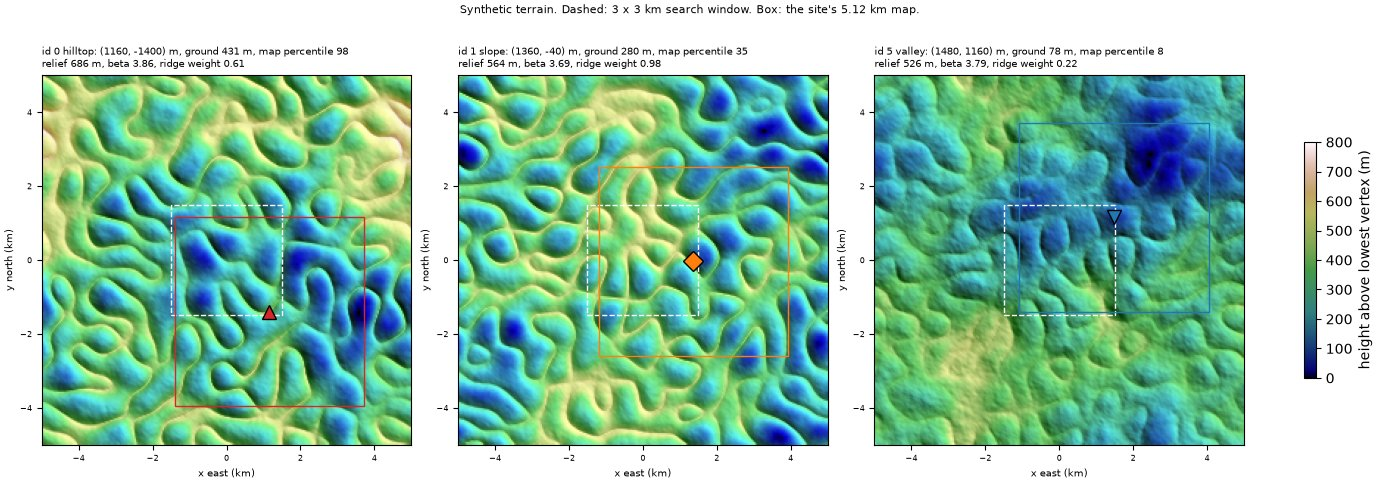
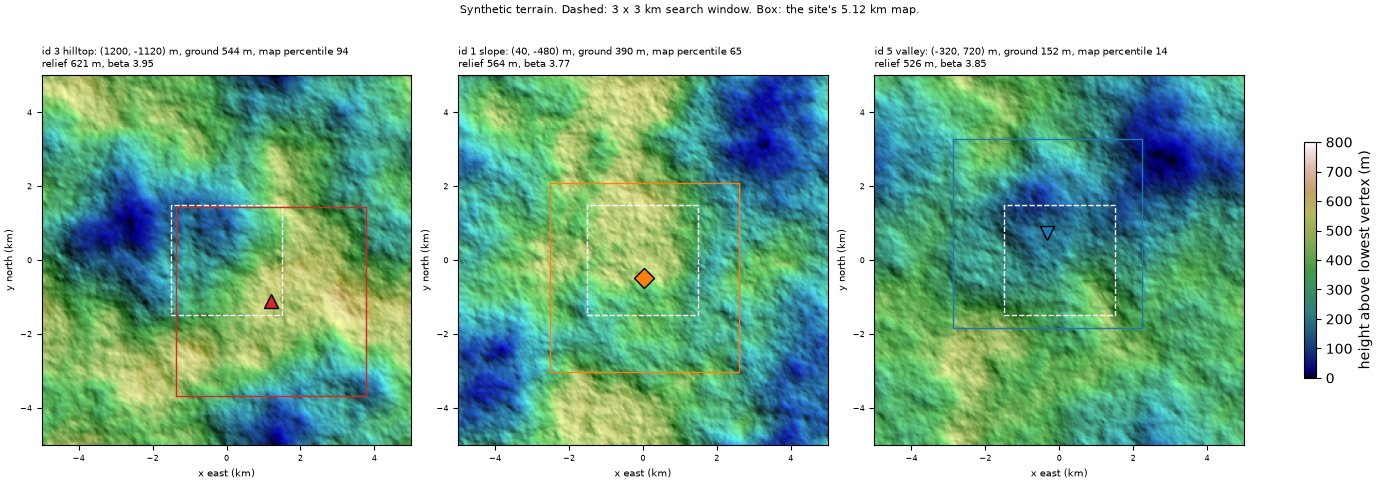
feat: use spectral terrain only and pick sites nearest the window centre

diff --git a/src/sionna_twin_ops/terrain.py b/src/sionna_twin_ops/terrain.py
@@ -1,4 +1,4 @@
-"""Procedural hilly terrain (spec rule T): spectral noise plus ridged noise, from a seed.
+"""Procedural hilly terrain (spec rule T): power-law spectral noise, from a seed.
 
 Coordinates: the tile is centred on the origin, x points east and y north, in metres.
 `heights[i, j]` is the ground height at x = coords[j], y = coords[i]. Heights run from
@@ -16,12 +16,7 @@ GRID_SPACING_M = 40.0  # START (spec T3); PR 3 tries 20 m
 
 # Per-terrain parameter ranges (spec T2). ASSUMPTION: judged by eye on the sample grid.
 RELIEF_RANGE_M = (100.0, 800.0)
-BETA_RANGE = (3.2, 4.0)
-RIDGE_WEIGHT_RANGE = (0.0, 1.0)
-
-# Band of the field whose zero set carries the ridge crests. ASSUMPTION: not given by the
-# spec; wavelengths of 1 to 4 km put crests roughly 0.5 to 2 km apart inside a 5.12 km map.
-RIDGE_BAND_WAVELENGTH_M = (1000.0, 4000.0)
+BETA_RANGE = (3.4, 4.0)
 
 
 @dataclass(frozen=True)
@@ -31,14 +26,12 @@ class TerrainParams:
     Attributes:
         terrain_id: Terrain index; with BASE_SEED it fixes every draw.
         relief_m: Height difference between the highest and lowest vertex.
-        beta: Power-law exponent of the base noise power spectrum.
-        ridge_weight: Weight of the ridge term; 0 gives rolling hills only.
+        beta: Power-law exponent of the noise power spectrum.
     """
 
     terrain_id: int
     relief_m: float
     beta: float
-    ridge_weight: float
 
 
 @dataclass(frozen=True)
@@ -72,35 +65,7 @@ def draw_params(terrain_id: int, rng: np.random.Generator) -> TerrainParams:
         terrain_id=terrain_id,
         relief_m=float(rng.uniform(*RELIEF_RANGE_M)),
         beta=float(rng.uniform(*BETA_RANGE)),
-        ridge_weight=float(rng.uniform(*RIDGE_WEIGHT_RANGE)),
     )
-
-
-def wavenumbers(n: int, spacing_m: float) -> NDArray[np.float64]:
-    """Radial wavenumber of every FFT coefficient of an n x n grid.
-
-    Args:
-        n: Grid points per side.
-        spacing_m: Grid spacing.
-
-    Returns:
-        Array of shape (n, n) in cycles per metre.
-    """
-    kx = np.fft.fftfreq(n, d=spacing_m)
-    return np.hypot(kx[None, :], kx[:, None])
-
-
-def shape_noise(white: NDArray[np.float64], amplitude: NDArray[np.float64]) -> NDArray[np.float64]:
-    """Filter white noise by a spectral amplitude.
-
-    Args:
-        white: White Gaussian noise, shape (n, n).
-        amplitude: Amplitude per FFT coefficient, shape (n, n); zero at k = 0.
-
-    Returns:
-        A zero-mean field of shape (n, n), periodic across the tile edges.
-    """
-    return np.real(np.fft.ifft2(np.fft.fft2(white) * amplitude))
 
 
 def spectral_noise(
@@ -117,35 +82,12 @@ def spectral_noise(
     Returns:
         A zero-mean field of shape (n, n), periodic across the tile edges.
     """
-    k = wavenumbers(n, spacing_m)
+    white = rng.standard_normal((n, n))
+    kx = np.fft.fftfreq(n, d=spacing_m)
+    k = np.hypot(kx[None, :], kx[:, None])
     amplitude = np.zeros_like(k)
     amplitude[k > 0] = k[k > 0] ** (-beta / 2.0)
-    return shape_noise(rng.standard_normal((n, n)), amplitude)
-
-
-def ridge_term(n: int, spacing_m: float, rng: np.random.Generator) -> NDArray[np.float64]:
-    """Ridged noise (1 - |f|/max|f|)**2 of a band-limited field f.
-
-    The term is 1 on the zero set of f and falls off to either side, so crests follow
-    the zero set and branch where it does.
-
-    Args:
-        n: Grid points per side.
-        spacing_m: Grid spacing, used for the wavenumbers.
-        rng: Source of the white noise.
-
-    Returns:
-        Field of shape (n, n) with values in [0, 1].
-    """
-    k = wavenumbers(n, spacing_m)
-    shortest, longest = RIDGE_BAND_WAVELENGTH_M
-    band = (k >= 1.0 / longest) & (k <= 1.0 / shortest)
-    if not band.any():
-        raise ValueError(f"no FFT coefficient in the ridge band {RIDGE_BAND_WAVELENGTH_M} m")
-    field = shape_noise(rng.standard_normal((n, n)), band.astype(np.float64))
-    magnitude = np.abs(field)
-    ridged: NDArray[np.float64] = (1.0 - magnitude / magnitude.max()) ** 2
-    return ridged
+    return np.real(np.fft.ifft2(np.fft.fft2(white) * amplitude))
 
 
 def generate_terrain(terrain_id: int, spacing_m: float) -> Terrain:
@@ -172,9 +114,7 @@ def generate_terrain(terrain_id: int, spacing_m: float) -> Terrain:
     params = draw_params(terrain_id, rng)
     coords = np.linspace(-TILE_SIZE_M / 2.0, TILE_SIZE_M / 2.0, n)
 
-    base = spectral_noise(n, spacing_m, params.beta, rng)
-    base = (base - base.min()) / (base.max() - base.min())
-    raw = base + params.ridge_weight * ridge_term(n, spacing_m, rng)
+    raw = spectral_noise(n, spacing_m, params.beta, rng)
     heights = params.relief_m * (raw - raw.min()) / (raw.max() - raw.min())
     if not np.isfinite(heights).all():
         raise ValueError(f"terrain {terrain_id}: heightmap has non-finite values")

diff --git a/tests/test_site.py b/tests/test_site.py
@@ -13,10 +13,12 @@ from sionna_twin_ops.site import (
     MAST_HEIGHT_M,
     SEARCH_HALF_WIDTH_M,
     SITE_CLASSES,
+    SLOPE_MIN_GRADIENT,
     SLOPE_PERCENTILE_RANGE,
     VALLEY_MAX_PERCENTILE,
     NoSiteError,
     Site,
+    SiteClass,
     baseline_gradient,
     guard_band_m,
     map_bounds,
@@ -44,43 +46,48 @@ def disc(terrain: Terrain, i: int, j: int) -> np.ndarray:
     return heights
 
 
-def placed(terrain_id: int) -> tuple[Terrain, Site]:
-    terrain = generate_terrain(terrain_id, 40.0)
-    return terrain, place_site(terrain, site_class_for(terrain_id))
-
-
-@pytest.mark.parametrize("terrain_id", [0, 3, 6, 9])
-def test_hilltop_rule(terrain_id: int) -> None:
-    terrain, site = placed(terrain_id)
-    i, j = index_of(terrain, site)
-    assert site.ground_m == disc(terrain, i, j).max()
-    assert site.percentile >= HILLTOP_MIN_PERCENTILE
-    assert site.percentile == map_percentile(terrain, i, j)
-
-
-@pytest.mark.parametrize("terrain_id", [5, 8, 11, 14])
-def test_valley_rule(terrain_id: int) -> None:
-    terrain, site = placed(terrain_id)
-    i, j = index_of(terrain, site)
-    assert site.ground_m == disc(terrain, i, j).min()
-    assert site.percentile <= VALLEY_MAX_PERCENTILE
-
-
-@pytest.mark.parametrize("terrain_id", [1, 4, 7])
-def test_slope_rule_picks_the_steepest_qualifying_vertex(terrain_id: int) -> None:
-    terrain, site = placed(terrain_id)
-    low, high = SLOPE_PERCENTILE_RANGE
-    assert low <= site.percentile <= high
+def window_slices(terrain: Terrain) -> slice:
+    """Rows (and columns) of the central 3 x 3 km search window."""
     half = int(SEARCH_HALF_WIDTH_M // terrain.spacing_m)
     centre = len(terrain.coords_m) // 2
-    rows = cols = slice(centre - half, centre + half + 1)
-    gradient = baseline_gradient(terrain.heights_m, rows, cols, terrain.spacing_m)
+    return slice(centre - half, centre + half + 1)
+
+
+def qualifies(terrain: Terrain, site_class: SiteClass, i: int, j: int) -> bool:
+    """Check vertex (i, j) against the S2 rule for the class, written out directly."""
+    percentile = map_percentile(terrain, i, j)
+    if site_class == "hilltop":
+        return bool(terrain.heights_m[i, j] == disc(terrain, i, j).max()) and (
+            percentile >= HILLTOP_MIN_PERCENTILE
+        )
+    if site_class == "valley":
+        return bool(terrain.heights_m[i, j] == disc(terrain, i, j).min()) and (
+            percentile <= VALLEY_MAX_PERCENTILE
+        )
+    low, high = SLOPE_PERCENTILE_RANGE
+    gradient = baseline_gradient(
+        terrain.heights_m, slice(i, i + 1), slice(j, j + 1), terrain.spacing_m
+    )[0, 0]
+    return bool(gradient >= SLOPE_MIN_GRADIENT) and low <= percentile <= high
+
+
+@pytest.mark.parametrize("terrain_id", [1, 3, 4, 5, 6, 8])
+def test_site_qualifies_and_is_nearest_the_centre(terrain_id: int) -> None:
+    terrain = generate_terrain(terrain_id, 40.0)
+    site_class = site_class_for(terrain_id)
+    site = place_site(terrain, site_class)
     i, j = index_of(terrain, site)
-    site_gradient = gradient[i - rows.start, j - cols.start]
-    # Every steeper vertex in the window fails the percentile band.
-    for r, c in zip(*np.nonzero(gradient > site_gradient), strict=True):
-        p = map_percentile(terrain, rows.start + int(r), cols.start + int(c))
-        assert not low <= p <= high
+    assert qualifies(terrain, site_class, i, j)
+    assert site.percentile == map_percentile(terrain, i, j)
+
+    # No vertex strictly nearer the window centre qualifies.
+    window = window_slices(terrain)
+    centre = len(terrain.coords_m) // 2
+    distance = np.hypot(i - centre, j - centre)
+    for r in range(window.start, window.stop):
+        for c in range(window.start, window.stop):
+            if np.hypot(r - centre, c - centre) < distance:
+                assert not qualifies(terrain, site_class, r, c)
 
 
 def test_baseline_gradient_is_exact_on_a_plane() -> None:

diff --git a/src/sionna_twin_ops/site.py b/src/sionna_twin_ops/site.py
@@ -24,6 +24,7 @@ GRADIENT_BASELINE_M = 200.0  # spec S2: slope gradient by central difference ove
 HILLTOP_MIN_PERCENTILE = 85.0  # spec S2
 VALLEY_MAX_PERCENTILE = 15.0  # spec S2
 SLOPE_PERCENTILE_RANGE = (35.0, 65.0)  # spec S2
+SLOPE_MIN_GRADIENT = 0.05  # ASSUMPTION (spec S2): m per m over the 200 m baseline
 MAP_CELLS = 128  # spec S3
 MAP_CELL_M = 40.0  # spec S3
 MAP_SIZE_M = MAP_CELLS * MAP_CELL_M
@@ -151,22 +152,23 @@ def baseline_gradient(
 
 
 def _ordered_candidates(terrain: Terrain, site_class: SiteClass) -> Iterator[tuple[int, int]]:
-    """Candidate vertices for a class, most preferred first, before the percentile test."""
+    """Candidate vertices for a class, nearest the window centre first, before the
+    percentile test. Equal distances keep row-major order, so the choice is deterministic."""
     half = int(SEARCH_HALF_WIDTH_M // terrain.spacing_m)
     centre = len(terrain.coords_m) // 2
     rows = cols = slice(centre - half, centre + half + 1)
     block = terrain.heights_m[rows, cols]
 
     if site_class == "slope":
-        key = -baseline_gradient(terrain.heights_m, rows, cols, terrain.spacing_m)
-        eligible = np.ones_like(block, dtype=bool)
+        gradient = baseline_gradient(terrain.heights_m, rows, cols, terrain.spacing_m)
+        eligible = gradient >= SLOPE_MIN_GRADIENT
     else:
         radius = round(DISC_RADIUS_M / terrain.spacing_m)
         disc_max, disc_min = disc_extremes(terrain.heights_m, rows, cols, radius)
-        if site_class == "hilltop":
-            eligible, key = block == disc_max, -block
-        else:
-            eligible, key = block == disc_min, block
+        eligible = block == (disc_max if site_class == "hilltop" else disc_min)
+
+    offsets = np.arange(-half, half + 1)
+    key = np.hypot(offsets[None, :], offsets[:, None])
 
     flat = np.flatnonzero(eligible.ravel())
     for index in flat[np.argsort(key.ravel()[flat], kind="stable")]:
@@ -188,10 +190,10 @@ def place_site(terrain: Terrain, site_class: SiteClass) -> Site:
     """Choose the site vertex by the rule for its class (spec S2).
 
     Candidates lie inside the central 3 x 3 km; percentiles are taken over the vertices
-    of the site's own map. Hilltop: the highest vertex that is the highest point of the
-    200 m disc around it, at percentile >= 85. Valley: the lowest vertex that is the
-    lowest point of its 200 m disc, at percentile <= 15. Slope: the vertex with the
-    largest gradient over a 200 m baseline among those at percentile 35 to 65.
+    of the site's own map (midrank). Hilltop: the highest point of the 200 m disc around
+    it, at percentile >= 85. Valley: the lowest point of its 200 m disc, at percentile
+    <= 15. Slope: gradient >= 0.05 over a 200 m baseline, at percentile 35 to 65. Among
+    the qualifiers, the one nearest the window centre is chosen.
 
     Args:
         terrain: Terrain to place the site on.

diff --git a/tests/test_terrain.py b/tests/test_terrain.py
@@ -7,9 +7,7 @@ from sionna_twin_ops.terrain import (
     BASE_SEED,
     BETA_RANGE,
     RELIEF_RANGE_M,
-    RIDGE_WEIGHT_RANGE,
     generate_terrain,
-    ridge_term,
     spectral_noise,
 )
 
@@ -50,13 +48,12 @@ def test_parameters_and_heights_stay_in_range() -> None:
         p = terrain.params
         assert RELIEF_RANGE_M[0] <= p.relief_m <= RELIEF_RANGE_M[1]
         assert BETA_RANGE[0] <= p.beta <= BETA_RANGE[1]
-        assert RIDGE_WEIGHT_RANGE[0] <= p.ridge_weight <= RIDGE_WEIGHT_RANGE[1]
         assert np.isfinite(terrain.heights_m).all()
         assert terrain.heights_m.min() == 0.0
         assert terrain.heights_m.max() == pytest.approx(p.relief_m)
 
 
-@pytest.mark.parametrize("beta", [3.2, 3.6, 4.0])
+@pytest.mark.parametrize("beta", [3.4, 3.7, 4.0])
 def test_noise_spectrum_follows_the_power_law(beta: float) -> None:
     n, spacing = 256, 40.0
     rng = np.random.default_rng([BASE_SEED, 999])
@@ -69,14 +66,6 @@ def test_noise_spectrum_follows_the_power_law(beta: float) -> None:
     nonzero = k > 0
     slope = np.polyfit(np.log(k[nonzero]), np.log(power[nonzero]), 1)[0]
     assert slope == pytest.approx(-beta, abs=0.05)
-
-
-def test_ridge_term_peaks_at_one_and_stays_in_unit_range() -> None:
-    term = ridge_term(251, 40.0, np.random.default_rng([BASE_SEED, 999]))
-    assert term.min() >= 0.0
-    assert term.max() <= 1.0
-    # Crests exist: the field crosses zero, so the term reaches (almost) 1.
-    assert term.max() > 0.99
 
 
 def test_invalid_arguments_raise() -> None:

diff --git a/src/sionna_twin_ops/figures.py b/src/sionna_twin_ops/figures.py
@@ -81,8 +81,7 @@ def terrain_grid(ids: list[int], spacing_m: float, path: Path) -> None:
         p = terrain.params
         _show(ax, terrain)
         ax.set_title(
-            f"id {terrain_id}: relief {p.relief_m:.0f} m\n"
-            f"beta {p.beta:.2f}, ridge weight {p.ridge_weight:.2f}",
+            f"id {terrain_id}: relief {p.relief_m:.0f} m, beta {p.beta:.2f}",
             fontsize=6,
             loc="left",
         )
@@ -124,7 +123,7 @@ def site_placement(ids: list[int], spacing_m: float, path: Path) -> None:
         ax.set_title(
             f"id {terrain_id} {site.site_class}: ({site.x_m:.0f}, {site.y_m:.0f}) m, "
             f"ground {site.ground_m:.0f} m, map percentile {site.percentile:.0f}\n"
-            f"relief {p.relief_m:.0f} m, beta {p.beta:.2f}, ridge weight {p.ridge_weight:.2f}",
+            f"relief {p.relief_m:.0f} m, beta {p.beta:.2f}",
             fontsize=7,
             loc="left",
         )

diff --git a/results/site_check.md b/results/site_check.md
@@ -4,6 +4,6 @@ Synthetic terrain ids 0 to 59, 40 m grid, each id placed with its own class. Per
 
 | class | ids | placed | skipped | p10 | median | p90 | skipped ids |
 |---|---|---|---|---|---|---|---|
-| hilltop | 20 | 19 | 1 | 92.0 | 96.8 | 100.0 | 42 |
-| slope | 20 | 20 | 0 | 36.7 | 48.3 | 64.2 | none |
-| valley | 20 | 16 | 4 | 0.0 | 0.5 | 10.0 | 2, 26, 35, 56 |
+| hilltop | 20 | 14 | 6 | 87.4 | 93.2 | 97.5 | 0, 12, 15, 39, 42, 48 |
+| slope | 20 | 20 | 0 | 35.8 | 55.2 | 64.4 | none |
+| valley | 20 | 14 | 6 | 0.1 | 5.8 | 12.4 | 2, 26, 35, 41, 56, 59 |
